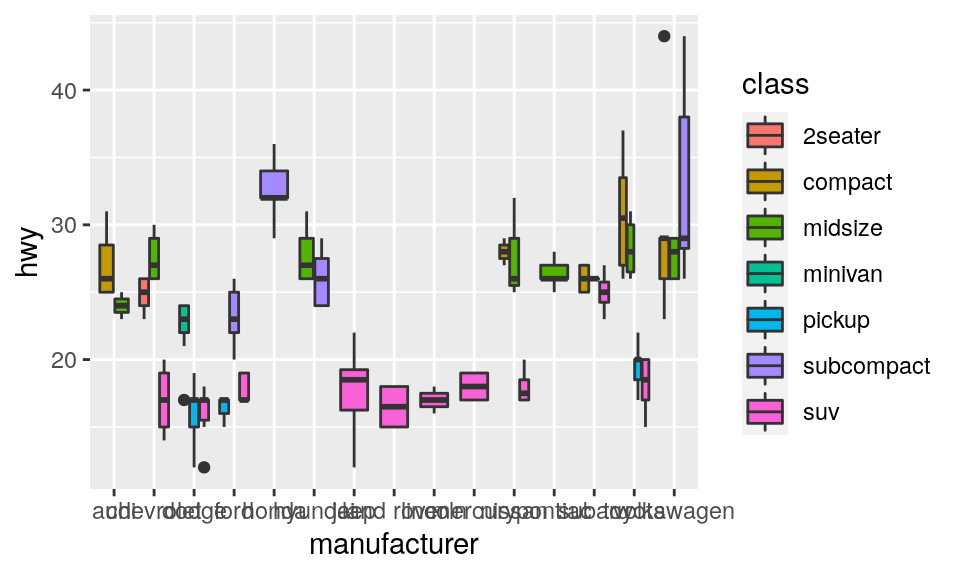
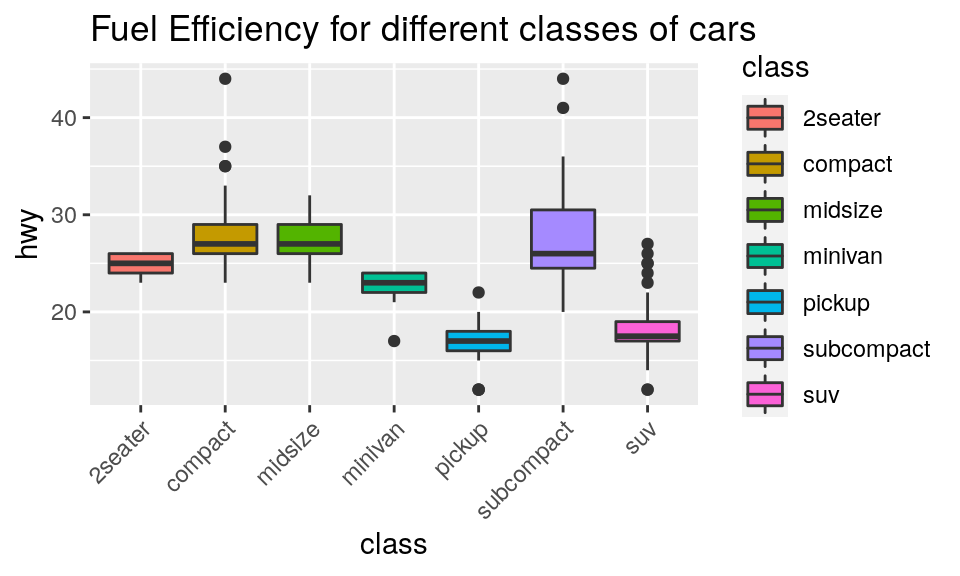
update

diff --git a/labs/01-Visualization.html b/labs/01-Visualization.html
@@ -670,7 +670,11 @@ data-lines="0">
 <div id="section-exercise-3" class="section level2">
 <h2>Exercise 3</h2>
 <p><img src="01-Visualization_files/figure-html/ex3-result-1.png" width="100%" style="display: block; margin: auto;" /></p>
-<p>Recreate the chart above.</p>
+<p>Recreate the chart above. - Add the chart title using the
+<code>ggtitle()</code> function - The text labels in the x-axis in the
+plot may be overlapping with each others. We should add an extra layer
+to the plot such that the x-Axis labels are rotated by 45 degrees with
+right-justified for horizontal justification. (Refer to exercise 2)</p>
 <div class="tutorial-exercise" data-label="ex3" data-completion="1"
 data-diagnostics="1" data-startover="1" data-lines="0">
 <script type="application/json" data-ui-opts="1">{"engine":"r","has_checker":false,"caption":"<span data-i18n=\"text.enginecap\" data-i18n-opts=\"{&quot;engine&quot;:&quot;R&quot;}\">R Code<\/span>"}</script>
@@ -859,23 +863,23 @@ learnr:::store_exercise_cache(structure(list(label = "ggplot1", global_setup = s
  
 <script type="application/shiny-prerendered" data-context="server">
 learnr:::question_prerendered_chunk(structure(list(type = "learnr_radio", label = "mc", question = structure("Which of the following statement correctly describes the relationship between between engine size (<code>displ<\u002fcode>) and fuel efficiency (<code>hwy<\u002fcode>)?", html = TRUE, class = c("html", 
-"character")), answers = list(structure(list(id = "lnr_ans_59aedad", 
+"character")), answers = list(structure(list(id = "lnr_ans_3c55465", 
     option = "The plot shows a positive relationship between engine size (`displ`) and fuel efficiency (`hwy`). The cars with big engines use *more* fuel.", 
     value = "The plot shows a positive relationship between engine size (`displ`) and fuel efficiency (`hwy`). The cars with big engines use *more* fuel.", 
     label = structure("The plot shows a positive relationship between engine size (<code>displ<\u002fcode>) and fuel efficiency (<code>hwy<\u002fcode>). The cars with big engines use <em>more<\u002fem> fuel.", html = TRUE, class = c("html", 
     "character")), correct = FALSE, message = NULL, type = "literal"), class = c("tutorial_question_answer", 
-"tutorial_quiz_answer")), structure(list(id = "lnr_ans_7d4cff9", 
+"tutorial_quiz_answer")), structure(list(id = "lnr_ans_39e08c7", 
     option = "The plot shows a positive relationship between engine size (`displ`) and fuel efficiency (`hwy`). The cars with big engines use *less* fuel.", 
     value = "The plot shows a positive relationship between engine size (`displ`) and fuel efficiency (`hwy`). The cars with big engines use *less* fuel.", 
     label = structure("The plot shows a positive relationship between engine size (<code>displ<\u002fcode>) and fuel efficiency (<code>hwy<\u002fcode>). The cars with big engines use <em>less<\u002fem> fuel.", html = TRUE, class = c("html", 
     "character")), correct = FALSE, message = structure("Try again!", html = TRUE, class = c("html", 
     "character")), type = "literal"), class = c("tutorial_question_answer", 
-"tutorial_quiz_answer")), structure(list(id = "lnr_ans_efb0cf8", 
+"tutorial_quiz_answer")), structure(list(id = "lnr_ans_74a0fec", 
     option = "The plot shows a negative relationship between engine size (`displ`) and fuel efficiency (`hwy`). The cars with big engines use *more* fuel.", 
     value = "The plot shows a negative relationship between engine size (`displ`) and fuel efficiency (`hwy`). The cars with big engines use *more* fuel.", 
     label = structure("The plot shows a negative relationship between engine size (<code>displ<\u002fcode>) and fuel efficiency (<code>hwy<\u002fcode>). The cars with big engines use <em>more<\u002fem> fuel.", html = TRUE, class = c("html", 
     "character")), correct = TRUE, message = NULL, type = "literal"), class = c("tutorial_question_answer", 
-"tutorial_quiz_answer")), structure(list(id = "lnr_ans_e5f65cb", 
+"tutorial_quiz_answer")), structure(list(id = "lnr_ans_def45bf", 
     option = "The plot shows a negative relationship between engine size (`displ`) and fuel efficiency (`hwy`). The cars with big engines use *less* fuel.", 
     value = "The plot shows a negative relationship between engine size (`displ`) and fuel efficiency (`hwy`). The cars with big engines use *less* fuel.", 
     label = structure("The plot shows a negative relationship between engine size (<code>displ<\u002fcode>) and fuel efficiency (<code>hwy<\u002fcode>). The cars with big engines use <em>less<\u002fem> fuel.", html = TRUE, class = c("html", 
@@ -889,7 +893,7 @@ learnr:::question_prerendered_chunk(structure(list(type = "learnr_radio", label 
 "character")), message = NULL, post_message = NULL), ids = list(
     answer = "mc-answer", question = "mc"), loading = structure("<strong>Loading:<\u002fstrong> \nWhich of the following statement correctly describes the relationship between between engine size (<code>displ<\u002fcode>) and fuel efficiency (<code>hwy<\u002fcode>)?\n<br/><br/><br/>", html = TRUE, class = c("html", 
 "character")), random_answer_order = FALSE, allow_retry = TRUE, 
-    seed = 167704600.921906, options = list()), class = c("learnr_radio", 
+    seed = 906425721.077913, options = list()), class = c("learnr_radio", 
 "tutorial_question")), session = session)
 </script>
 
@@ -1463,25 +1467,25 @@ learnr:::store_exercise_cache(structure(list(label = "barchart-dodge", global_se
 
 <script type="application/shiny-prerendered" data-context="server">
 learnr:::question_prerendered_chunk(structure(list(type = "learnr_radio", label = "ex2-task1a", question = structure("What is the most common type of car in the <code>mpg<\u002fcode> data set?", html = TRUE, class = c("html", 
-"character")), answers = list(structure(list(id = "lnr_ans_e31c7e1", 
+"character")), answers = list(structure(list(id = "lnr_ans_d77916c", 
     option = "2seater", value = "2seater", label = structure("2seater", html = TRUE, class = c("html", 
     "character")), correct = FALSE, message = NULL, type = "literal"), class = c("tutorial_question_answer", 
-"tutorial_quiz_answer")), structure(list(id = "lnr_ans_41b9a0f", 
+"tutorial_quiz_answer")), structure(list(id = "lnr_ans_db661f6", 
     option = "compact", value = "compact", label = structure("compact", html = TRUE, class = c("html", 
     "character")), correct = FALSE, message = NULL, type = "literal"), class = c("tutorial_question_answer", 
-"tutorial_quiz_answer")), structure(list(id = "lnr_ans_774670e", 
+"tutorial_quiz_answer")), structure(list(id = "lnr_ans_4402cb2", 
     option = "midsize", value = "midsize", label = structure("midsize", html = TRUE, class = c("html", 
     "character")), correct = FALSE, message = NULL, type = "literal"), class = c("tutorial_question_answer", 
-"tutorial_quiz_answer")), structure(list(id = "lnr_ans_16fc4fd", 
+"tutorial_quiz_answer")), structure(list(id = "lnr_ans_e11762f", 
     option = "minivan", value = "minivan", label = structure("minivan", html = TRUE, class = c("html", 
     "character")), correct = FALSE, message = NULL, type = "literal"), class = c("tutorial_question_answer", 
-"tutorial_quiz_answer")), structure(list(id = "lnr_ans_92c70f1", 
+"tutorial_quiz_answer")), structure(list(id = "lnr_ans_b28af82", 
     option = "pickup", value = "pickup", label = structure("pickup", html = TRUE, class = c("html", 
     "character")), correct = FALSE, message = NULL, type = "literal"), class = c("tutorial_question_answer", 
-"tutorial_quiz_answer")), structure(list(id = "lnr_ans_983f1c4", 
+"tutorial_quiz_answer")), structure(list(id = "lnr_ans_d3ee9c5", 
     option = "subcompact", value = "subcompact", label = structure("subcompact", html = TRUE, class = c("html", 
     "character")), correct = FALSE, message = NULL, type = "literal"), class = c("tutorial_question_answer", 
-"tutorial_quiz_answer")), structure(list(id = "lnr_ans_fc5a835", 
+"tutorial_quiz_answer")), structure(list(id = "lnr_ans_d053886", 
     option = "suv", value = "suv", label = structure("suv", html = TRUE, class = c("html", 
     "character")), correct = TRUE, message = NULL, type = "literal"), class = c("tutorial_question_answer", 
 "tutorial_quiz_answer"))), button_labels = list(submit = structure("<span data-i18n=\"button.questionsubmit\">Submit Answer<\u002fspan>", html = TRUE, class = c("html", 
@@ -1492,31 +1496,31 @@ learnr:::question_prerendered_chunk(structure(list(type = "learnr_radio", label 
 "character")), message = NULL, post_message = NULL), ids = list(
     answer = "ex2-task1a-answer", question = "ex2-task1a"), loading = structure("<strong>Loading:<\u002fstrong> \nWhat is the most common type of car in the <code>mpg<\u002fcode> data set?\n<br/><br/><br/>", html = TRUE, class = c("html", 
 "character")), random_answer_order = FALSE, allow_retry = TRUE, 
-    seed = 727737128.161121, options = list()), class = c("learnr_radio", 
+    seed = 1309027498.89044, options = list()), class = c("learnr_radio", 
 "tutorial_question")), session = session)
 </script>
  
 <script type="application/shiny-prerendered" data-context="server">
 learnr:::question_prerendered_chunk(structure(list(type = "learnr_radio", label = "ex2-task1b", question = structure("What is the least common type of car in the <code>mpg<\u002fcode> data set?", html = TRUE, class = c("html", 
-"character")), answers = list(structure(list(id = "lnr_ans_56e9751", 
+"character")), answers = list(structure(list(id = "lnr_ans_b843f98", 
     option = "2seater", value = "2seater", label = structure("2seater", html = TRUE, class = c("html", 
     "character")), correct = TRUE, message = NULL, type = "literal"), class = c("tutorial_question_answer", 
-"tutorial_quiz_answer")), structure(list(id = "lnr_ans_ff73b58", 
+"tutorial_quiz_answer")), structure(list(id = "lnr_ans_8ead859", 
     option = "compact", value = "compact", label = structure("compact", html = TRUE, class = c("html", 
     "character")), correct = FALSE, message = NULL, type = "literal"), class = c("tutorial_question_answer", 
-"tutorial_quiz_answer")), structure(list(id = "lnr_ans_583d1ee", 
+"tutorial_quiz_answer")), structure(list(id = "lnr_ans_ed4dbfe", 
     option = "midsize", value = "midsize", label = structure("midsize", html = TRUE, class = c("html", 
     "character")), correct = FALSE, message = NULL, type = "literal"), class = c("tutorial_question_answer", 
-"tutorial_quiz_answer")), structure(list(id = "lnr_ans_b3c61e5", 
+"tutorial_quiz_answer")), structure(list(id = "lnr_ans_a2f953", 
     option = "minivan", value = "minivan", label = structure("minivan", html = TRUE, class = c("html", 
     "character")), correct = FALSE, message = NULL, type = "literal"), class = c("tutorial_question_answer", 
-"tutorial_quiz_answer")), structure(list(id = "lnr_ans_4dbb652", 
+"tutorial_quiz_answer")), structure(list(id = "lnr_ans_90daaff", 
     option = "pickup", value = "pickup", label = structure("pickup", html = TRUE, class = c("html", 
     "character")), correct = FALSE, message = NULL, type = "literal"), class = c("tutorial_question_answer", 
-"tutorial_quiz_answer")), structure(list(id = "lnr_ans_6102229", 
+"tutorial_quiz_answer")), structure(list(id = "lnr_ans_bf29173", 
     option = "subcompact", value = "subcompact", label = structure("subcompact", html = TRUE, class = c("html", 
     "character")), correct = FALSE, message = NULL, type = "literal"), class = c("tutorial_question_answer", 
-"tutorial_quiz_answer")), structure(list(id = "lnr_ans_aeac300", 
+"tutorial_quiz_answer")), structure(list(id = "lnr_ans_695dc77", 
     option = "suv", value = "suv", label = structure("suv", html = TRUE, class = c("html", 
     "character")), correct = FALSE, message = NULL, type = "literal"), class = c("tutorial_question_answer", 
 "tutorial_quiz_answer"))), button_labels = list(submit = structure("<span data-i18n=\"button.questionsubmit\">Submit Answer<\u002fspan>", html = TRUE, class = c("html", 
@@ -1527,7 +1531,7 @@ learnr:::question_prerendered_chunk(structure(list(type = "learnr_radio", label 
 "character")), message = NULL, post_message = NULL), ids = list(
     answer = "ex2-task1b-answer", question = "ex2-task1b"), loading = structure("<strong>Loading:<\u002fstrong> \nWhat is the least common type of car in the <code>mpg<\u002fcode> data set?\n<br/><br/><br/>", html = TRUE, class = c("html", 
 "character")), random_answer_order = FALSE, allow_retry = TRUE, 
-    seed = 2124400859.01075, options = list()), class = c("learnr_radio", 
+    seed = 1765961260.17766, options = list()), class = c("learnr_radio", 
 "tutorial_question")), session = session)
 </script>
 
@@ -1784,8 +1788,8 @@ learnr:::store_exercise_cache(structure(list(label = "ex3", global_setup = struc
         out.width = "\"100%\"", exercise.reveal_solution = "FALSE"), 
         engine = "r")), code_check = NULL, error_check = NULL, 
     check = NULL, solution = structure(c("ggplot(data = mpg) + ", 
-    "  geom_boxplot(mapping = aes(x = manufacturer, y = hwy, fill=class))", 
-    ""), chunk_opts = list(label = "ex3-solution")), test_cases = NULL, 
+    "  geom_boxplot(mapping = aes(x = class, y = hwy, fill=class))", 
+    "", ""), chunk_opts = list(label = "ex3-solution")), test_cases = NULL, 
     options = list(eval = FALSE, echo = TRUE, results = "markup", 
         tidy = FALSE, tidy.opts = NULL, collapse = FALSE, prompt = FALSE, 
         comment = NA, highlight = FALSE, size = "normalsize", 
